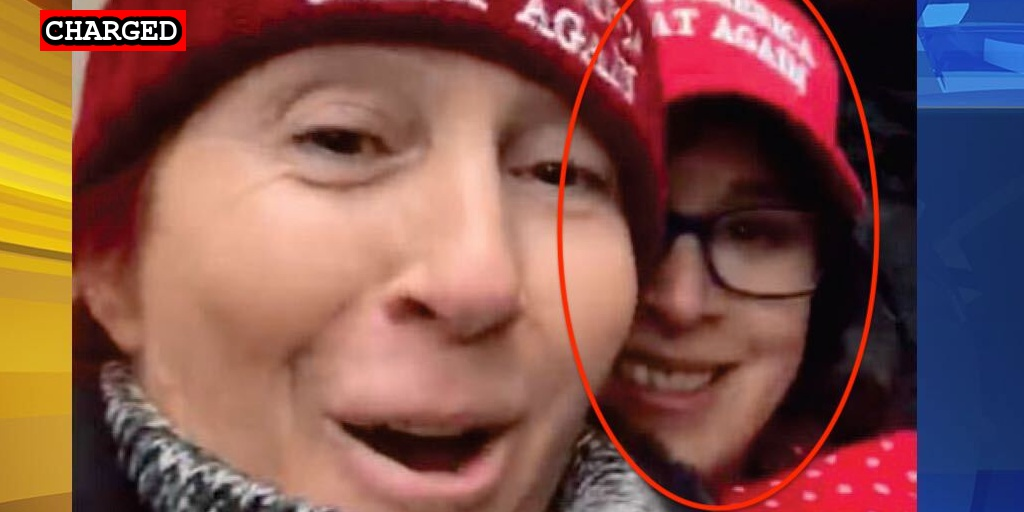
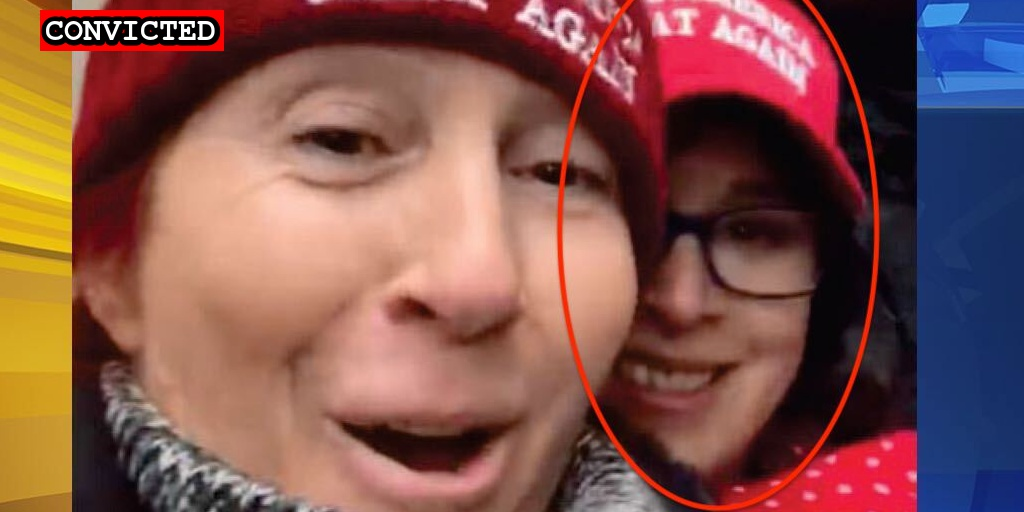
Latest plea

Changed region(s): [[0.0625, 0.0, 0.2188, 0.125]]

diff --git a/docs/_suspects/diana-santos-smith.md b/docs/_suspects/diana-santos-smith.md
@@ -4,15 +4,15 @@ lastName: Santos-Smith
 hashtag:
 aka:
 residence: Pennsylvania
-status: Charged
+status: Convicted
 date: 2021-01-29
 charged: 2021-01-29
 indicted:
-convicted: 
-sentenced: 
-dismissed: 
+convicted: 2021-09-28
+sentenced:
+dismissed:
 deceased:
-plea_hearing:
+plea_hearing: 2021-09-28
 sentencing:
 age: 31
 occupation:
@@ -34,6 +34,10 @@ published: true
 caseNumber: 1:21-cr-271
 videos:
 charges:
+- code: 18 USC § 5104(e)(2)(G)
+  title: Parading, demonstrating or picketing in a Capitol building
+  url: https://www.law.cornell.edu/uscode/text/40/5104
+  felony: false
 sentence:
 ---
 - [News Report](https://www.mcall.com/news/police/mc-nws-pennsylvania-women-charged-in-capitol-siege-20210130-zsgjdrfdibgpboyuatcphtlaxq-story.html)
